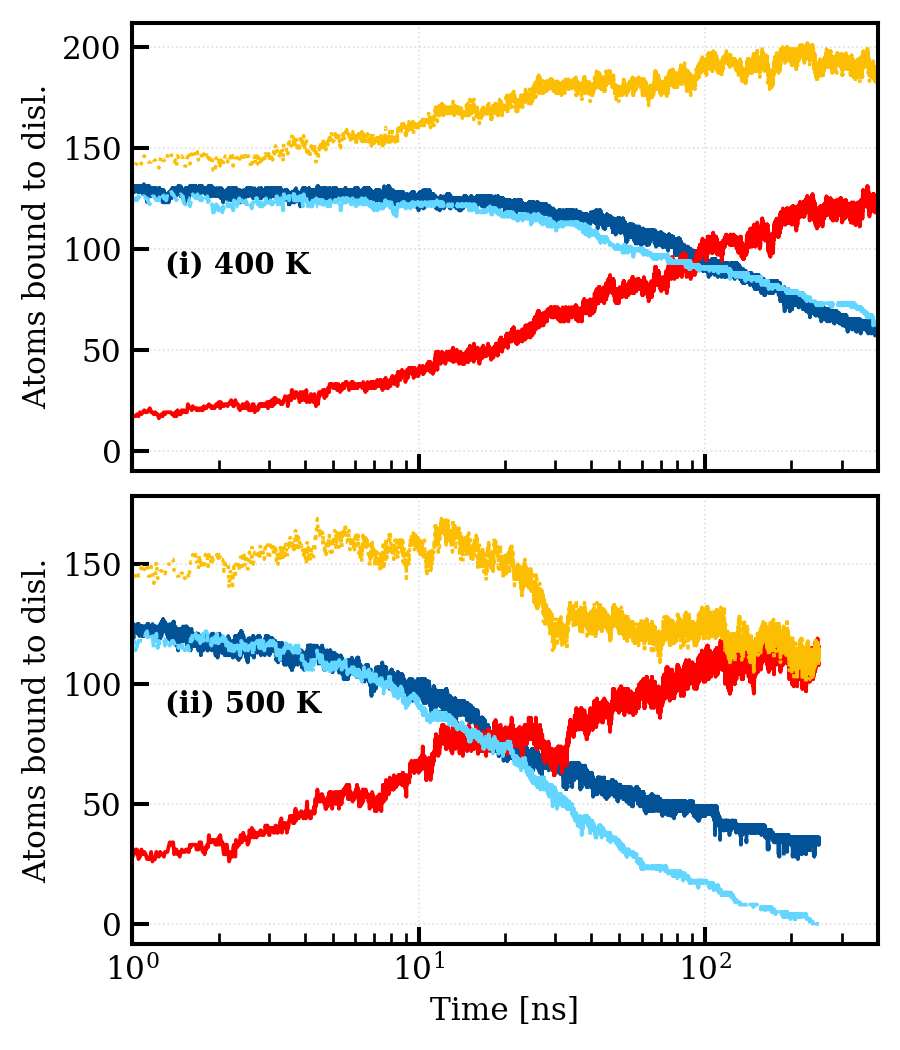
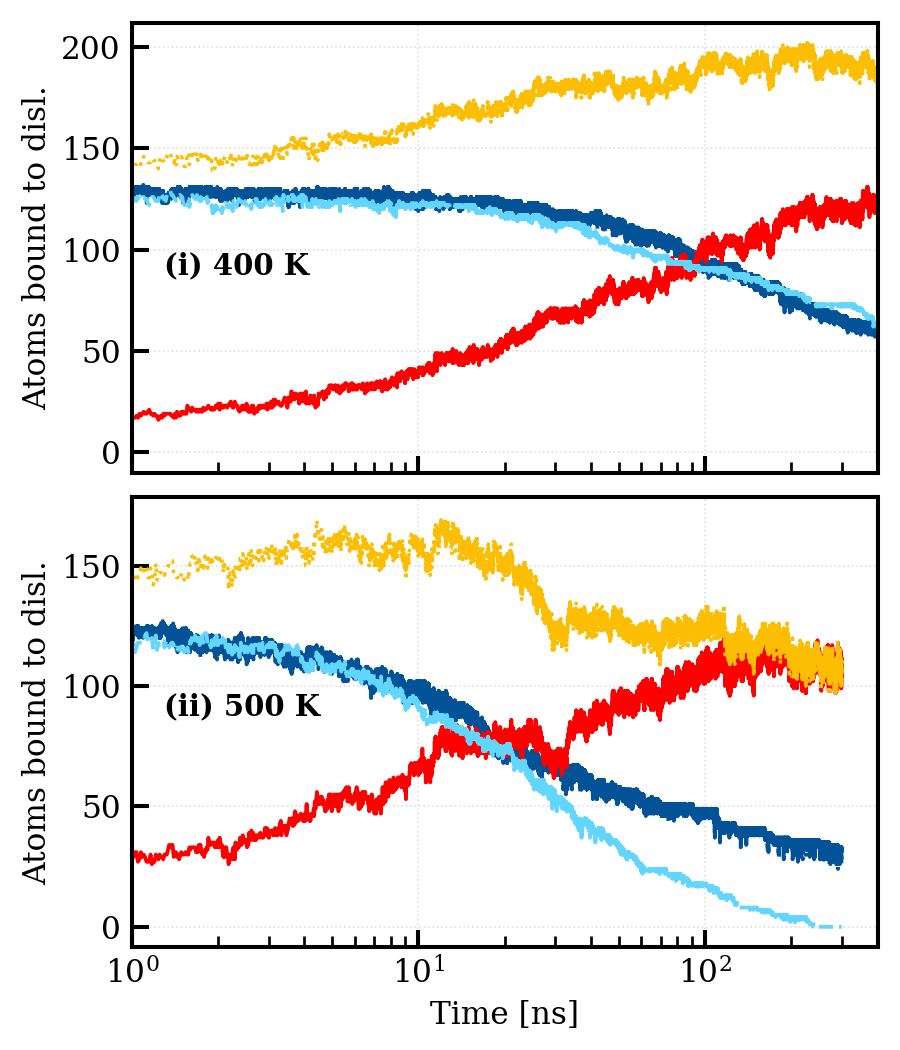
update disloc plots

diff --git a/plotting-scripts/plot_disloc_isoEx_comp.py b/plotting-scripts/plot_disloc_isoEx_comp.py
@@ -11,8 +11,8 @@ path += 'disloc_isoEx_results/'
 # HinVac.out format: Timestep NTinVac NHinVac NTinCell
 tTH_isoEx_400K = readData(path+'disloc_isoEx_400K_500ns/HinDisl.out', [0,1,2])
 tT_diff_400K = readData(path+'disloc_isoEx_400K_0H_500ns/HinDisl.out', [0,1])
-tTH_isoEx_500K = readData(path+'disloc_isoEx_500K_250ns/HinDisl.out', [0,1,2])
-tT_diff_500K = readData(path+'disloc_isoEx_500K_0H_250ns/HinDisl.out', [0,1])
+tTH_isoEx_500K = readData(path+'disloc_isoEx_500K_300ns/HinDisl.out', [0,1,2])
+tT_diff_500K = readData(path+'disloc_isoEx_500K_0H_300ns/HinDisl.out', [0,1])
 
 # Convert timesteps --> time in ns
 cf = 1e-6
